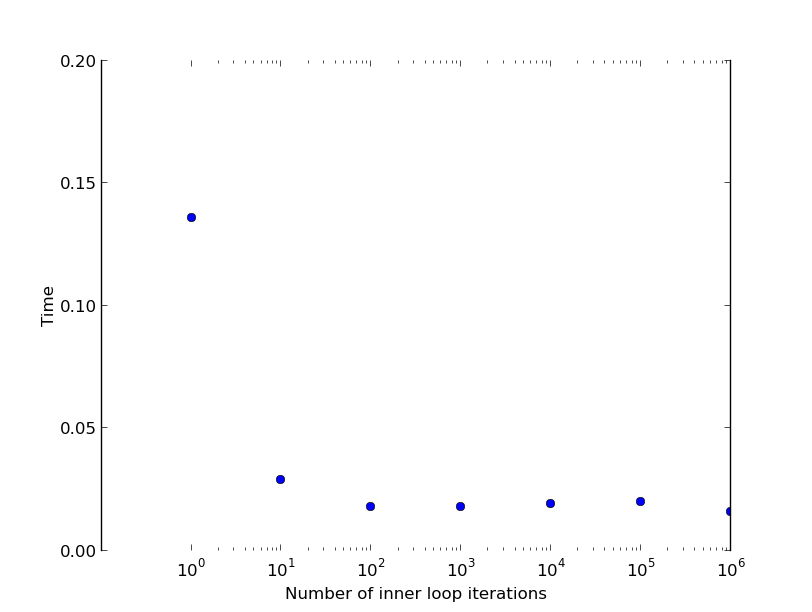
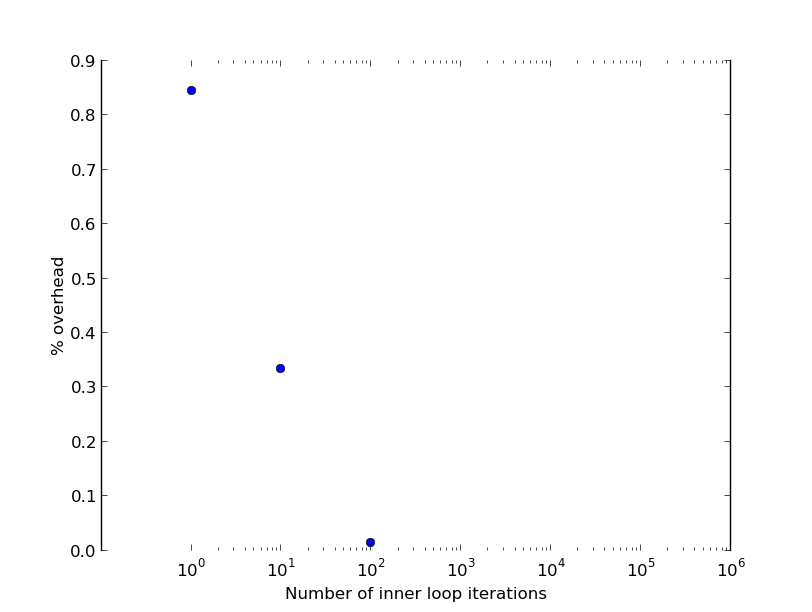
Finished yield overhead plots

diff --git a/Testing/MicroTests/process_data.py b/Testing/MicroTests/process_data.py
@@ -4,6 +4,7 @@ from sys import argv
 filename = 'loop_test_strcpy.txt'
 if(len(argv) > 1):
     filename = argv[1]
+print filename
 f = open(filename, 'r')
 lines = f.readlines()
 
@@ -17,22 +18,42 @@ for i in range(0, len(lines), 3):
     j = string.find(lines[i], 'm=')
     n=int(lines[i][2:j-2])
     m=int(lines[i][j+2:len(lines[i])-1])
-    print "n="+str(n)+", m="+str(m)
-    j = string.find(lines[i+1], 'user')
-    time = float(lines[i+1][0:j])
+    #print "n="+str(n)+", m="+str(m)
+    colon = string.find(lines[i+1], ':')
+    j = string.find(lines[i+1], 'elapsed')
+    time = float(lines[i+1][colon+1:j])
     try:
         entries[(n,m)] += time
     except:
         entries[(n,m)] = time
 
 f.close()
+runs = len(lines)/(3*len(entries))
+
+f = open(filename[len(filename)-10:], 'r')
+
+lines = f.readlines()
+runtime = 0
+for i in range(0, len(lines), 2):
+    colon = string.find(lines[i], ':')
+    j = string.find(lines[i], 'elapsed')
+    runtime += float(lines[i][colon+1:j])
+runtime /= len(lines)/2
+print runtime
+f.close()
+
 outfilename = 'loop_strcpy_results.csv'
 if(len(argv)>3):
     outfilename = argv[3]
+
+print outfilename
 f = open(outfilename, 'w')
 f.write('n,m,time\n')
 
 for n, m in entries.keys():
-    time = entries[(n, m)]/10
+    print "n="+str(n)+", m="+str(m)
+    total_time = entries[(n, m)]/runs
+    print total_time
+    time = (total_time - runtime)/total_time
     f.write(str(n)+","+str(m)+","+str(time)+"\n")
 f.close()

diff --git a/Testing/MicroTests/loop_test.c b/Testing/MicroTests/loop_test.c
@@ -24,7 +24,9 @@ void loop_strcpy( void *a )
             //printf("i=%d, j=%d\n", i, j);
             strcpy(s2, s1);
         }
-        __charcoal_yield();
+        if(args[3]){
+            __charcoal_yield();
+        }
     }
 }
 
@@ -41,7 +43,9 @@ void loop_memcpy( void *a )
             //printf("i=%d, j=%d\n", i, j);
             memcpy(s1, s2, args[2]);
         }
-        __charcoal_yield();
+        if(args[3]){
+            __charcoal_yield();
+        }
     }
 }
 
@@ -52,6 +56,7 @@ int __charcoal_replace_main( int argc, char **argv )
     int buffer_size = 128;
     int num_activities = 2;
     void* function = loop_strcpy;
+    int yield = 1;
 
     if (argc > 3){
         n = atoi(argv[1]);
@@ -63,14 +68,19 @@ int __charcoal_replace_main( int argc, char **argv )
             }
         }
         if(argc > 5){
-            buffer_size = atoi(argv[4]);
+            buffer_size = atoi(argv[5]);
+        }
+        if(argc > 6){
+            if(strcmp(argv[6], "noyield")==0){
+                yield = 0;
+            }
         }
     }
     printf("n=%d, m=%d\n", n, m);
     int i;
     __charcoal_activity_t* activities[num_activities];
-    int args[3];
-    args[0] = n; args[1] = m; args[2] = buffer_size;
+    int args[4];
+    args[0] = n; args[1] = m; args[2] = buffer_size; args[3] = yield;
     for( i = 0; i < num_activities; i++){
         activities[i] = __charcoal_activate(function, (void*) args );
         if(i==0){

diff --git a/Testing/MicroTests/graphs.py b/Testing/MicroTests/graphs.py
@@ -12,10 +12,10 @@ def main():
     t.append(float(entry[2]))
 
   pylab.plot(m, t, 'bo')
-  pylab.axis([0, 1000000, 0, .2]) # xmin, xmax, ymin, ymax
+  pylab.axis([0, 1000000, 0, .9]) # xmin, xmax, ymin, ymax
   pylab.semilogx()
   pylab.xlabel('Number of inner loop iterations')
-  pylab.ylabel('Time')
+  pylab.ylabel('% overhead')
   pylab.show()
   
   memcpy = open('loop_memcpy_results.csv', 'rb')
@@ -27,10 +27,10 @@ def main():
     t.append(float(entry[2]))
 
   pylab.plot(m, t, 'bo')
-  pylab.axis([0, 1000000, 0, .2]) # xmin, xmax, ymin, ymax
+  pylab.axis([0, 1000000, 0, .9]) # xmin, xmax, ymin, ymax
   pylab.semilogx()
   pylab.xlabel('Number of inner loop iterations')
-  pylab.ylabel('Time')
+  pylab.ylabel('% overhead')
   pylab.show()
  
 
